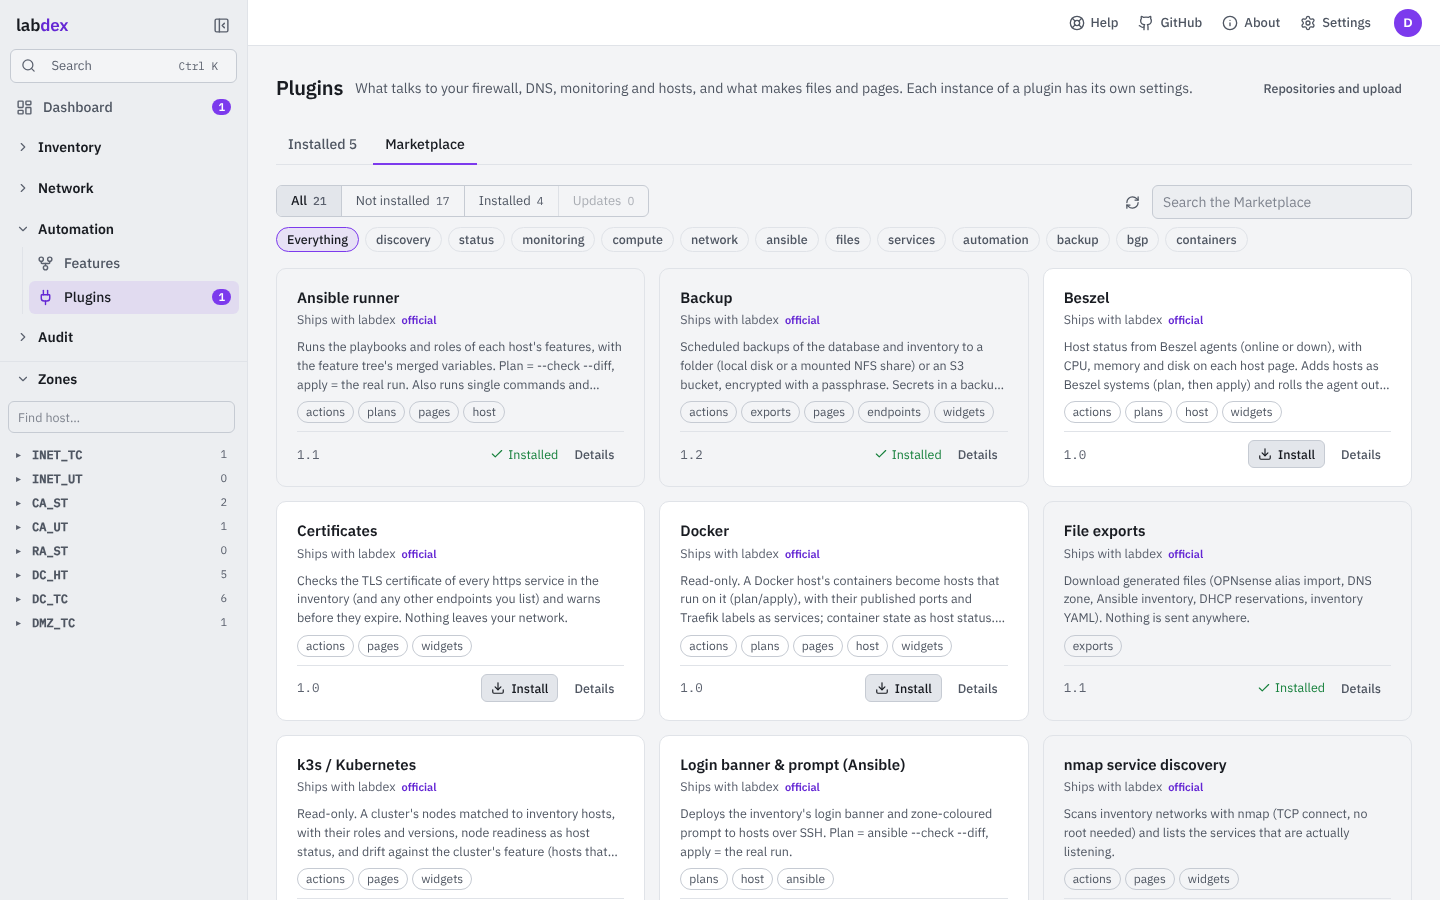
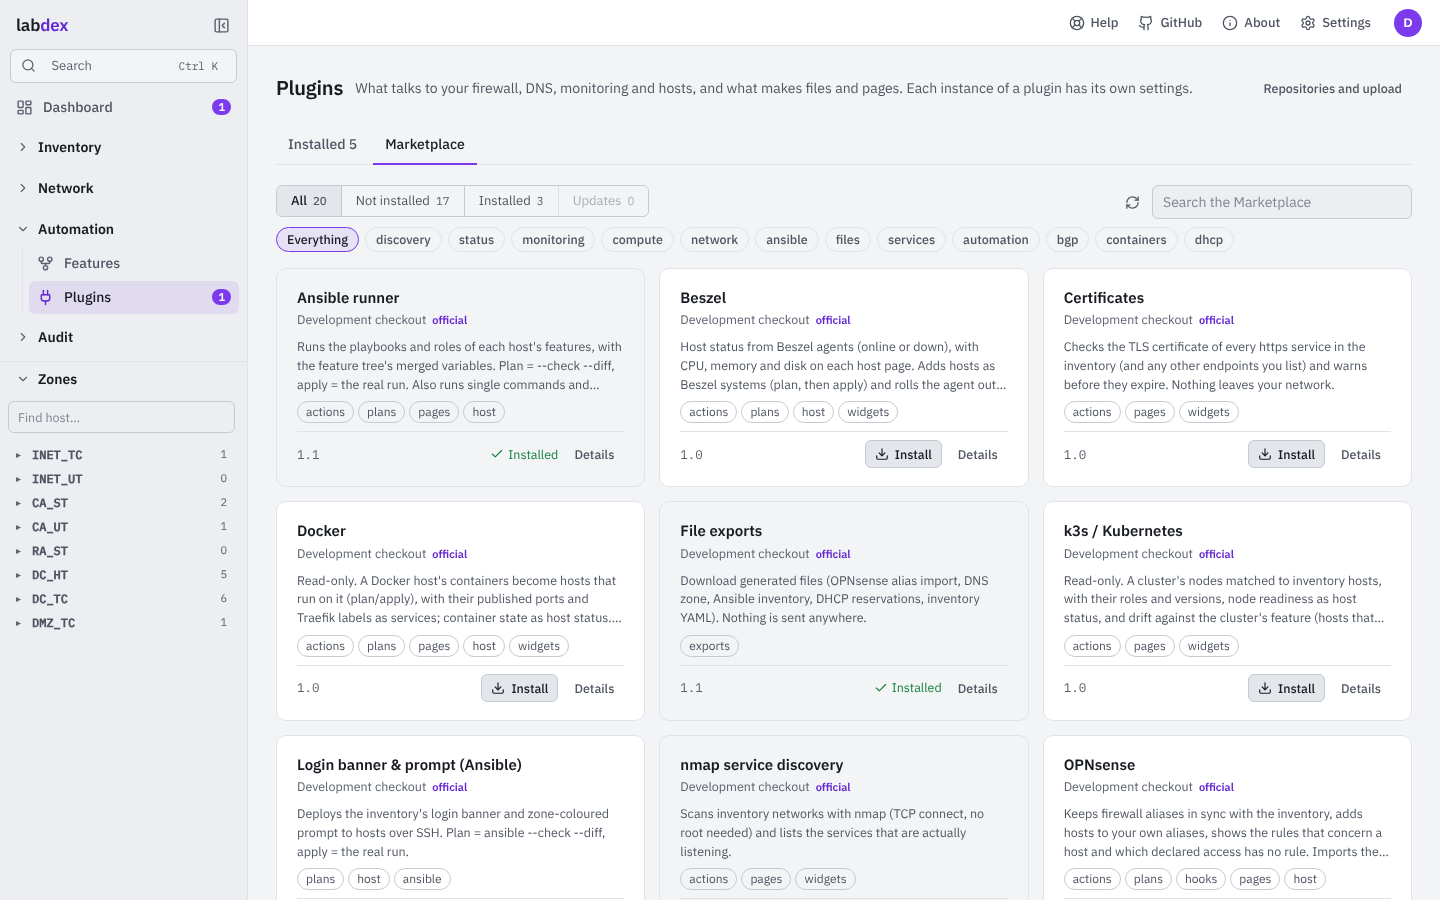
Docs: catch up with 1.24.1 (plugins from the Marketplace only)
- Fresh Plugins and Marketplace screenshots: no more "ships with labdex",
  Backup is built in; the Plugins screenshot is now shown on the plugins page.
- Installing plugins: the official Marketplace's new address; nothing ships with
  labdex any more.
- README: official plugins come from the Marketplace, labdex-app clone and demo
  image, the secret-keeper role, what CI, Lint and Docs actually do now.
- The release's source archive no longer has the plugins (releasing.md,
  release.yml's comment); release.yml drops two unused variables.

Claude-Session: https://claude.ai/code/session_01Mn3pyqFM6k1RYEGM3so7q6

diff --git a/README.md b/README.md
@@ -34,7 +34,7 @@ container, SQLite, under 100 MB of RAM, and a YAML file you can keep in git.
 | **DNS** | `A`/`AAAA` per interface (`<host>.<network>.<domain>`), CNAMEs for short, fun and service names, `SRV`/`TXT` per service. As a zone file or JSON. |
 | **Ansible** | Groups per category, zone, area, status and tag; host vars with addresses, aliases, a login banner (`labdex_motd`) and a zone-coloured prompt (`labdex_ps1`). |
 | **Lint** | Placement (a device never sits above its own trust level), duplicate IPs and MACs, third octet vs. VLAN, alias length, unresolvable alias members, DNS name clashes. `labdex lint` exits non-zero on errors, so it can gate CI. |
-| **Plugins** | Plugins with settings, actions and hooks, written in Python, Ansible or both. Built in: OPNsense alias sync, Technitium DNS sync, nmap discovery, Prometheus service discovery, login banners over Ansible, a YAML mirror and file exports. Changes to other systems are **planned first and applied after review**. |
+| **Plugins** | Plugins with settings, actions and hooks, written in Python, Ansible or both. Official ones from the Marketplace: OPNsense alias sync, Technitium DNS sync, nmap discovery, Prometheus service discovery, login banners over Ansible, a YAML mirror, file exports and more; backups are built in. Changes to other systems are **planned first and applied after review**. |
 | **Discovery** | nmap (TCP connect, no root), the OPNsense ARP table, Kea DHCP leases and DNS records show what's really there: undocumented services, unknown addresses, declared services that don't answer. One click adds a port to its host, or an unknown address to an existing host. Hosts get live up/down dots. |
 | **Features (Ansible)** | A tree of features (`server` → `server.packages` → `server.packages.pve`) with nested variables and playbooks/roles. Hosts get features; variables merge root → leaf, then the host's own vars. The Ansible runner applies them with plan → apply. |
 | **Per-host integrations** | Every integration applies to hosts by selector (`zone:DC_*`, `tag:admin`, …) and can be switched on/off and configured per host, with its own panel on the host page: DNS records that belong to the host, firewall rules that mention it, declared access without a pass rule, actions like *run a command*. |
@@ -48,7 +48,7 @@ that change another system show you a plan first.
 ## Quick start
 
 ```sh
-git clone https://github.com/<you>/labdex && cd labdex
+git clone https://github.com/labdex-app/labdex && cd labdex
 # set LABDEX_ADMIN_PASSWORD in docker-compose.yml (or leave it out and use the setup page)
 docker compose up -d --build
 docker compose exec labdex labdex import --yes /app/examples/homelab.yaml   # optional demo data
@@ -118,7 +118,7 @@ can't make HTTP requests or run Ansible, and installing plugins, repositories,
 notification channels, secrets, restores and changes to users and passwords are off.
 
 ```sh
-docker run -d -p 8080:8080 -e LABDEX_DEMO=1 ghcr.io/<owner>/labdex
+docker run -d -p 8080:8080 -e LABDEX_DEMO=1 ghcr.io/labdex-app/labdex:1
 ```
 
 ### Jobs and the worker
@@ -174,7 +174,7 @@ split horizon, a public service's name resolves to its internal address inside.
 ## Users, roles and history
 
 - **Sign-in:** local passwords (10+ characters, throttled after 5 failures), SSO headers from a trusted proxy, or API tokens (`Authorization: Bearer ldx_…`, optionally read-only and expiring, stored hashed).
-- **Permissions** are `<type>:<action>` with types `host`, `network`, `alias`, `integration`, `discovery`, `audit` and actions `view`, `edit`, `apply`, `admin`. Built-in roles: viewer, editor, operator, integration-admin, admin.
+- **Permissions** are `<type>:<action>` with types `host`, `network`, `alias`, `integration`, `discovery`, `audit` and actions `view`, `edit`, `apply`, `admin`. Built-in roles: viewer, editor, operator, integration-admin, secret-keeper, admin.
 - **Role bindings** give a user or group a role on a scope: `*`, `zone:DC_*`, `area:CA`, `network:srv`, `tag:admin`, `name:srv-vm-*`. A user with `editor` on `zone:CA_*` can't see or touch the datacenter.
 - **Object grants** add exceptions for single objects, e.g. edit on `host:srv-vm-media-*` or apply on `integration:motd`.
 - Moving an object needs edit rights on both its old and new place, so nobody can move a host out of reach of the people responsible for it.
@@ -285,8 +285,9 @@ about to install:
 | unsigned | no signature: installs only after you tick “I trust its author” |
 | invalid | bad signature, unknown key or files changed after signing: never loaded, not even from disk |
 
-The **official repository** (published with the docs, signed with the project key)
-is there out of the box; remove it and it stays removed. `LABDEX_OFFICIAL_INDEX`
+The **official repository** ([labdex-plugins](https://github.com/labdex-app/labdex-plugins),
+signed with the project key) is there out of the box and is where every official plugin
+comes from (since 1.24.1 none ships with labdex); remove it and it stays removed. `LABDEX_OFFICIAL_INDEX`
 points elsewhere, or is empty to have none.
 
 A repository is a signed `index.json` next to the plugin archives, on any web
@@ -492,12 +493,13 @@ LABDEX_E2E=1 pytest -q tests/e2e                             # browser tests (np
 python tools/big_inventory.py 1000 > big.yaml                # a large demo inventory
 ```
 
-GitHub Actions runs all of it on every push (`ci.yml`), including a docs build and
-the upgrade gate (a 0.5 database started on the current release, `tests/test_upgrade_gate.py`).
+GitHub Actions runs it on pull requests (`ci.yml`: what a change can affect, including a docs
+build and the upgrade gate, a 0.5 database started on the current release,
+`tests/test_upgrade_gate.py`), and ruff and eslint on every push (`lint.yml`).
 Publishing a GitHub release tagged `v<version>` publishes signed multi-arch images (amd64, arm64) to `ghcr.io/<owner>/labdex`
 and a GitHub release with signed archives, wheel and SBOMs (`release.yml`). `docs.yml`
-publishes the docs and the official plugin repository (signed with the
-`LABDEX_OFFICIAL_KEY` secret) to GitHub Pages.
+publishes the docs, one version per release, to GitHub Pages; the official plugin
+repository is its own project ([labdex-plugins](https://github.com/labdex-app/labdex-plugins)).
 
 The OPNsense and Technitium plugins are checked against OPNsense 26.1 (Kea
 inside OPNsense) and Technitium DNS Server 15.6.2; `tests/test_contracts.py`

diff --git a/docs/plugins/installing.md b/docs/plugins/installing.md
@@ -22,16 +22,16 @@ Its key signs the index and every plugin in it. When you add one, labdex shows i
 name and key id: compare it with the one the publisher gives you. The key is pinned
 from then on; a re-signed index or a plugin signed with another key is refused.
 
-The **official Marketplace** ([labdex-plugins](https://github.com/reykimedev/labdex-plugins))
+The **official Marketplace** ([labdex-plugins](https://github.com/labdex-app/labdex-plugins),
+`https://labdex-app.github.io/labdex-plugins/index.json`)
 is trusted out of the box. Every official plugin lives in its own git repository; its signed
 releases are the versions you can install.
 
-Every plugin labdex ships (OPNsense, Technitium, Proxmox, Ansible, Backup, …) is an
-official plugin: it works from the first start without a download, and a fix for one
-arrives through the official repository without waiting for a labdex release. An
-installed update takes the shipped copy's place; removing the update ("Remove update")
-goes back to the shipped one, and integrations keep running either way. A broken update
-never replaces a working copy.
+Since 1.24.1 no plugin ships with labdex: the official ones (OPNsense, Technitium,
+Proxmox, Ansible, …) are installed from the Marketplace like any other, downloaded and
+signature-checked. A fix for one arrives through the official repository without waiting
+for a labdex release. Backups and the demo lab are part of labdex itself (*built in*).
+A broken update never replaces a working copy.
 
 ## Versions
 

diff --git a/docs/plugins/index.md b/docs/plugins/index.md
@@ -14,6 +14,8 @@ The Marketplace also lists what your [repositories](installing.md#repositories) 
 with a filter for updates. Anyone who can see integrations can browse it; administrators
 install.
 
+![The installed plugins](../screenshots/plugins.png)
+
 Under **Plugins** add an instance of a plugin (an integration), fill in its settings and
 enable it. A plugin can have several instances, e.g. one per firewall. Each plugin has a
 page listing its instances, what it can do and its signature.

diff --git a/docs/develop/releasing.md b/docs/develop/releasing.md
@@ -89,7 +89,7 @@ previous one too.
 
 ## What each release has
 
-- a GitHub release with the CHANGELOG section, the source (with the plugins), the wheel,
+- a GitHub release with the CHANGELOG section, labdex's own source (not the plugins), the wheel,
   their SBOMs and cosign bundles
 - `ghcr.io/labdex-app/labdex:<version>` for amd64 and arm64, signed, with its SBOM attached
 - its own docs: `https://labdex-app.github.io/labdex/<X.Y>/` (the version picker at the top);

diff --git a/CONTRIBUTING.md b/CONTRIBUTING.md
@@ -70,7 +70,7 @@ ruff check labdex tools tests
 cd ../frontend && npm ci && npm run lint && npm run dev         # Vite on :5173, proxies /api
 ```
 
-The shipped plugins are git submodules: `git clone --recurse-submodules`, or
+The official plugins (for the tests; they aren't part of the package) are git submodules: `git clone --recurse-submodules`, or
 `git submodule update --init` in a clone you have.
 
 Licence of contributions
